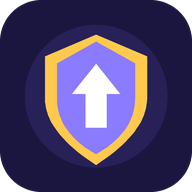
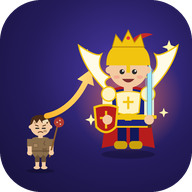
Add files via upload

diff --git a/index.html b/index.html
@@ -6,7 +6,7 @@
 <meta name="theme-color" content="#1b1640">
 <meta name="description" content="공부와 운동을 기록하면 캐릭터가 성장하는 자기계발 RPG">
 <link rel="manifest" href="manifest.webmanifest">
-<link rel="icon" href="icon.svg" type="image/svg+xml">
+<link rel="icon" href="icon-192.png" type="image/png">
 <link rel="apple-touch-icon" href="icon-192.png">
 <title>레벨업 라이프</title>
 <style>
@@ -270,7 +270,7 @@ const loadScript = src => new Promise(ok => {
   document.head.appendChild(s);
 });
 // 번역 파일을 고치면 APP_V 를 올려서 옛 파일(브라우저 캐시)이 쓰이지 않게 함
-const APP_V = '3.3';
+const APP_V = '3.4';
 async function loadLang(code) {
   if (code === 'ko' || I18N[code]) return;
   if (!window.I18N_KEYS) await loadScript(`lang/keys.js?v=${APP_V}`);

diff --git a/sw.js b/sw.js
@@ -1,7 +1,7 @@
 // 오프라인 실행용. 인터넷이 되면 항상 최신 파일을 받고(캐시 문제 방지), 안 되면 저장된 파일로 실행
-const CACHE = 'levelup-v26';
+const CACHE = 'levelup-v27';
 const LANGS = ['en', 'ja', 'es', 'pt', 'fr', 'de', 'id', 'vi', 'th', 'ru', 'tr', 'hi'];
-const FILES = ['./', './index.html', './hero.js', './manifest.webmanifest', './icon.svg', './icon-192.png', './icon-512.png',
+const FILES = ['./', './index.html', './hero.js', './manifest.webmanifest', './icon-192.png', './icon-512.png',
   './lang/keys.js', ...LANGS.map(l => `./lang/${l}.js`),
   ...[1, 2, 3, 4, 5, 6, 7].map(i => `./images/samtaegeuk-${i}.png`), ...[1, 2, 3, 4, 5].map(i => `./images/goryeo-${i}.png`)];
 

diff --git a/README.md b/README.md
@@ -60,7 +60,7 @@
   - **백업 저장**: 다운로드 대신 공유 창이 떠요. 카톡 나와의 채팅·드라이브·메일 등으로 보내 두면 돼요. 불러오기는 웹과 같아요.
   - **화면 위아래 여백**: 상태바·제스처 바에 가리지 않게 자동으로 여백을 둬요. 상태바 아이콘은 흰색(`capacitor.config.json`의 `SystemBars.style`).
 - Filesystem 플러그인이 Java 21을 써서, 처음 빌드할 때 Gradle이 Java 21을 자동으로 받아요(`android/settings.gradle`의 foojay 설정).
-- 앱 아이콘·시작 화면 그림: `python scripts/make-android-icons.py`로 다시 만들어요.
+- 앱 아이콘(거지 → 전설의 전사): 원본은 `scripts/icon.html`을 로컬 서버로 열어 캡처한 `assets/icon-master*.png`. `python scripts/make-android-icons.py`로 웹·안드로이드·스토어 아이콘과 시작 화면 그림을 다시 만들어요.
 - 앱 버전을 올릴 땐 `android/app/build.gradle`의 `versionCode`(1, 2, 3…)와 `versionName`을 올려요.
 - 앱 안의 기록은 웹 브라우저와 따로 저장돼요. 옮기려면 설정의 백업 저장 → 불러오기를 써요.
 - GitHub Pages에는 `android/`, `scripts/`, `package.json` 등을 올리지 않아도 돼요.
